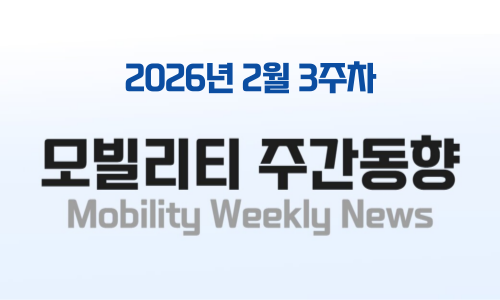
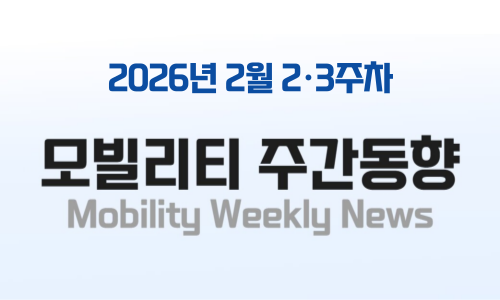
수정

Changed region(s): [[0.21, 0.21, 0.81, 0.33]]

diff --git a/archive/2026/03/index.html b/archive/2026/03/index.html
@@ -139,7 +139,7 @@
           </div>
         </a>
 
-        <a href="week3.html" class="week-card">
+        <a href="week2.html" class="week-card">
           <div class="week-image" style="background-image: url('week3.png');"></div>
           <div class="week-content">
             <div class="week-title">2026년 3월 2주차</div>
